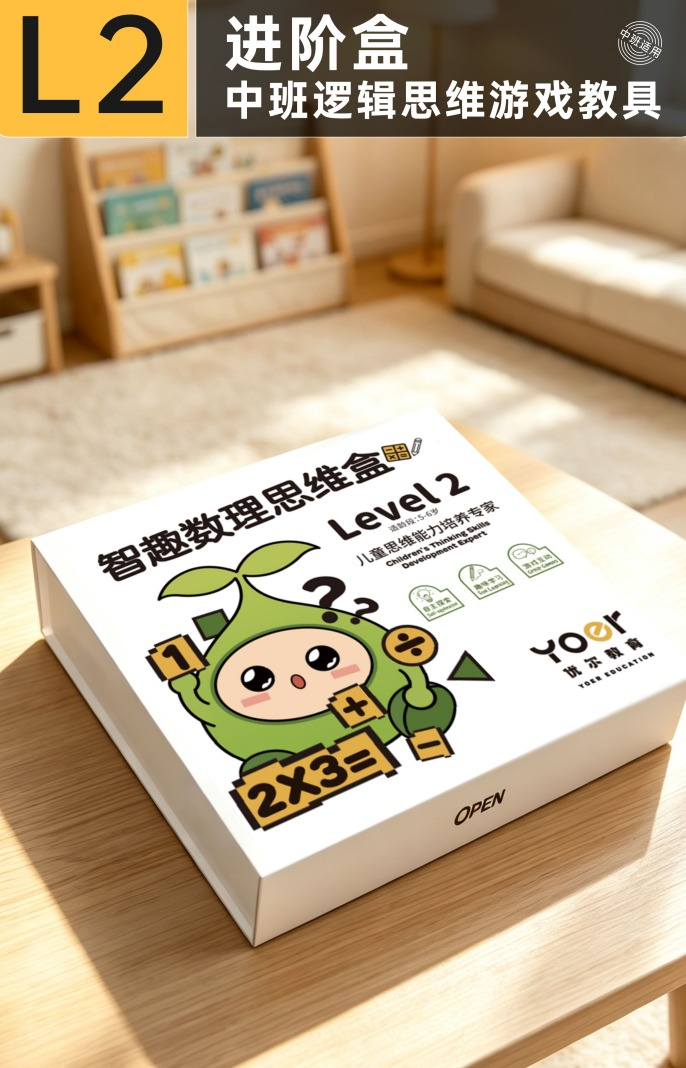
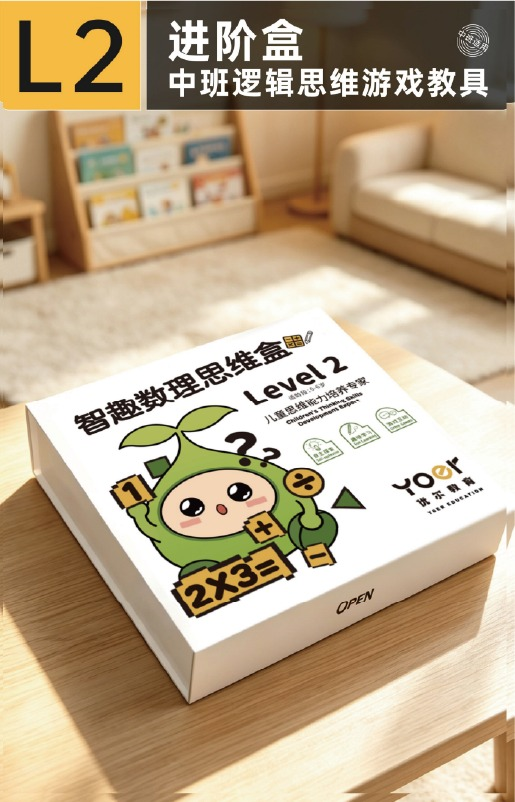
L2主页展示图替换为桌面资源1.png(透明合白底JPG)，SW v37将L2-cover加入预缓存；补.gitignore忽略node_modules

diff --git a/sw.js b/sw.js
@@ -1,6 +1,6 @@
 /* 优尔启蒙商城 Service Worker：预缓存全部资源，离线可浏览
    版本约定：改任何被预缓存的文件，必须 bump VERSION，否则老用户拿不到更新 */
-const VERSION = 'yoer-shop-v36';
+const VERSION = 'yoer-shop-v37';
 const PRECACHE = [
   'index.html',
   'detail.html',
@@ -36,7 +36,7 @@ const PRECACHE = [
   'images/C01/tools/小鱼总动员卡牌.jpg', 'images/C01/tools/小鱼总动员棋子.jpg',
   'images/C01/tools/抢答铃.jpg',
   // L2
-  'images/C02/C02-main.jpg', 'images/C02/C02-products.jpg', 'images/C02/C02-course.jpg',
+  'images/C02/L2-cover.jpg', 'images/C02/C02-main.jpg', 'images/C02/C02-products.jpg', 'images/C02/C02-course.jpg',
   'images/C02/L2-main-01.jpg', 'images/C02/C02-2.jpg', 'images/C02/C02-3.jpg',
   // L2 图文详情长图切片（6 段）
   'images/C02/detail/C02-detail-01.jpg', 'images/C02/detail/C02-detail-02.jpg',
